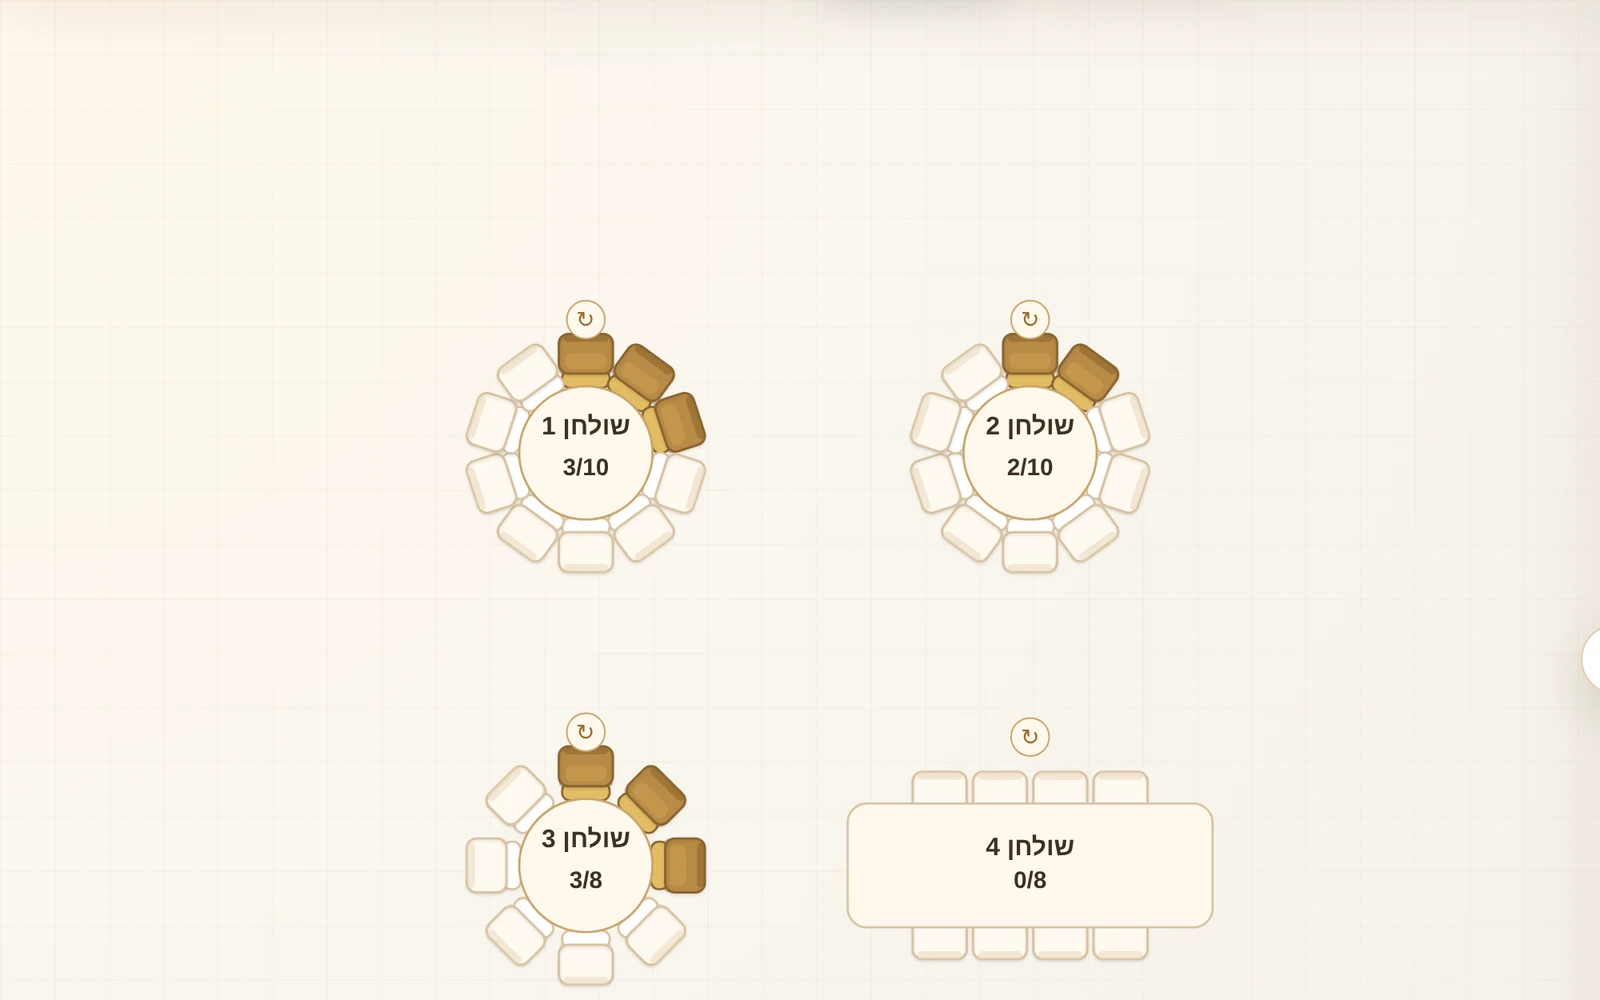
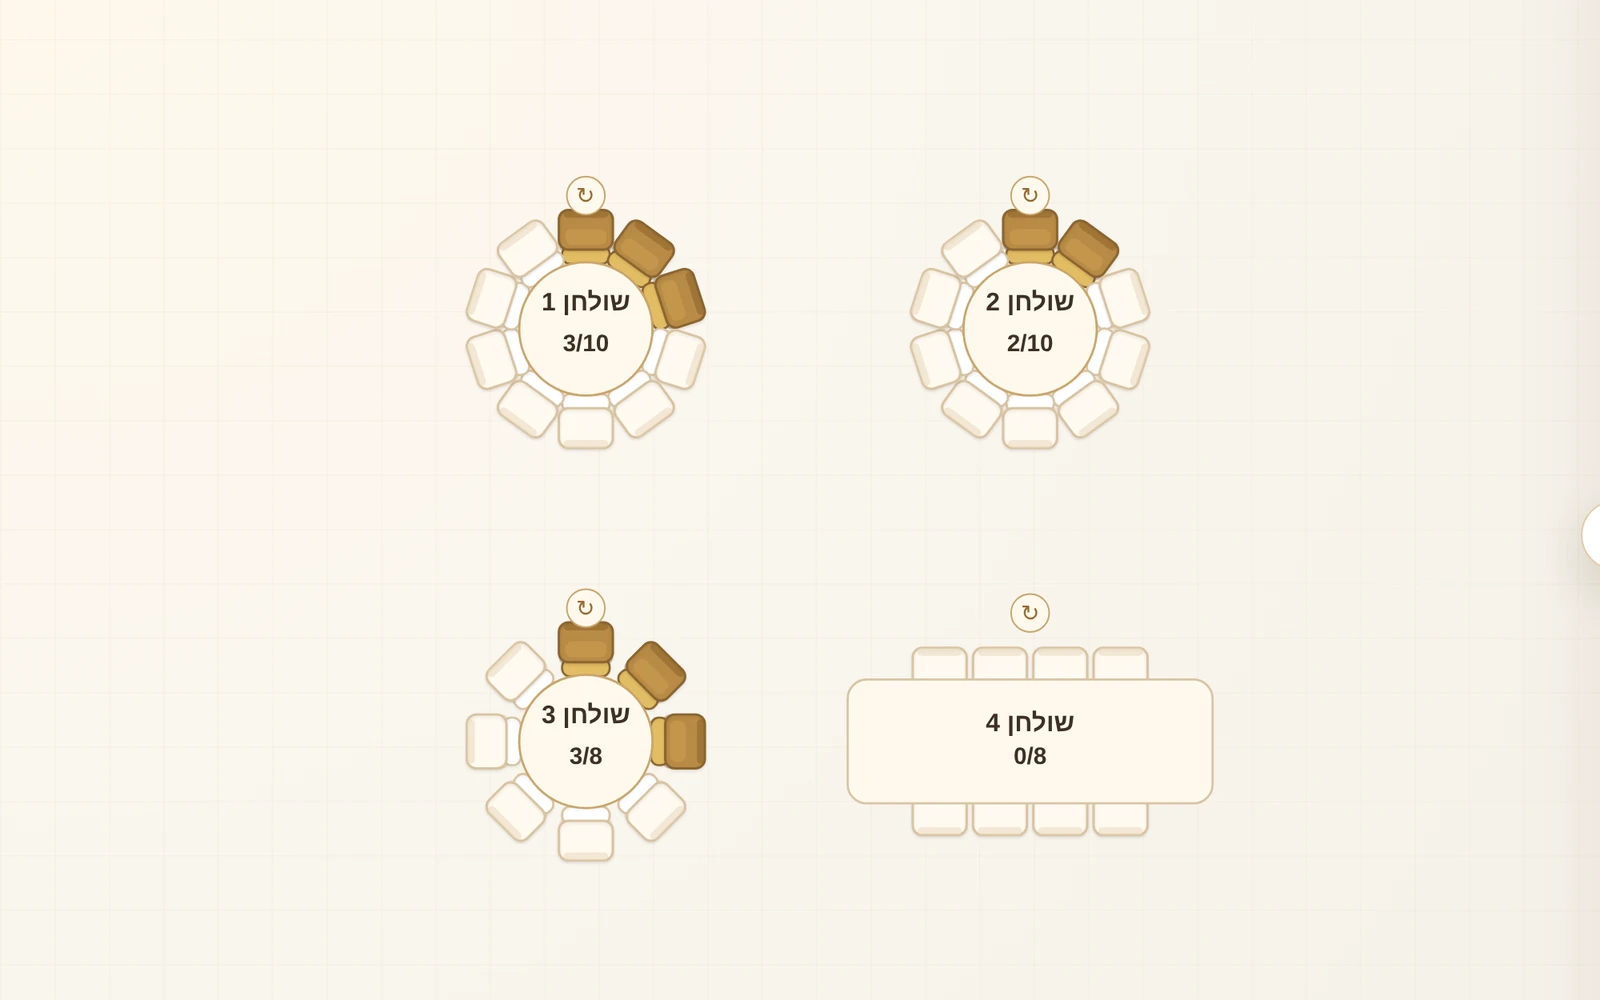
Fix seating demo assets: full assignment panel and unoptimized images
Use cover-framed map and contain-framed assignment screenshots from the
isolated demo, serve them unoptimized so both cards stay distinct and sharp.

diff --git a/app/seating-explained/content.ts b/app/seating-explained/content.ts
@@ -28,9 +28,9 @@ export const LINKS = {
 export const MEDIA = {
   hall: "/images/rsvp/guides/venue-guarantee-hall.jpg",
   /** Demo floor-plan map only (tables + capacity + free seats). */
-  map: "/images/seating/seating-map.webp",
+  map: "/images/seating/seating-map.png",
   /** Demo guest-assignment sidebar (list, table select, unassigned). */
-  assign: "/images/seating/seating-assign.webp",
+  assign: "/images/seating/seating-assign.png",
   /** Hero product preview — full seating UI with map + sidebar. */
   heroProduct: "/marketing/product/webp/desktop-try-seating.webp",
   seatingPoster: "/images/rsvp/chatuna/video-seating-poster.jpg",

diff --git a/app/seating-explained/SeatingMarketingPage.tsx b/app/seating-explained/SeatingMarketingPage.tsx
@@ -124,7 +124,8 @@ function ProductShot({
           alt={alt}
           fill
           priority={priority}
-          className={fit === "contain" ? "object-contain object-center p-2" : "object-cover object-top"}
+          unoptimized
+          className={fit === "contain" ? "object-contain object-center" : "object-cover object-top"}
           sizes="(max-width: 768px) 100vw, 720px"
         />
       </div>
